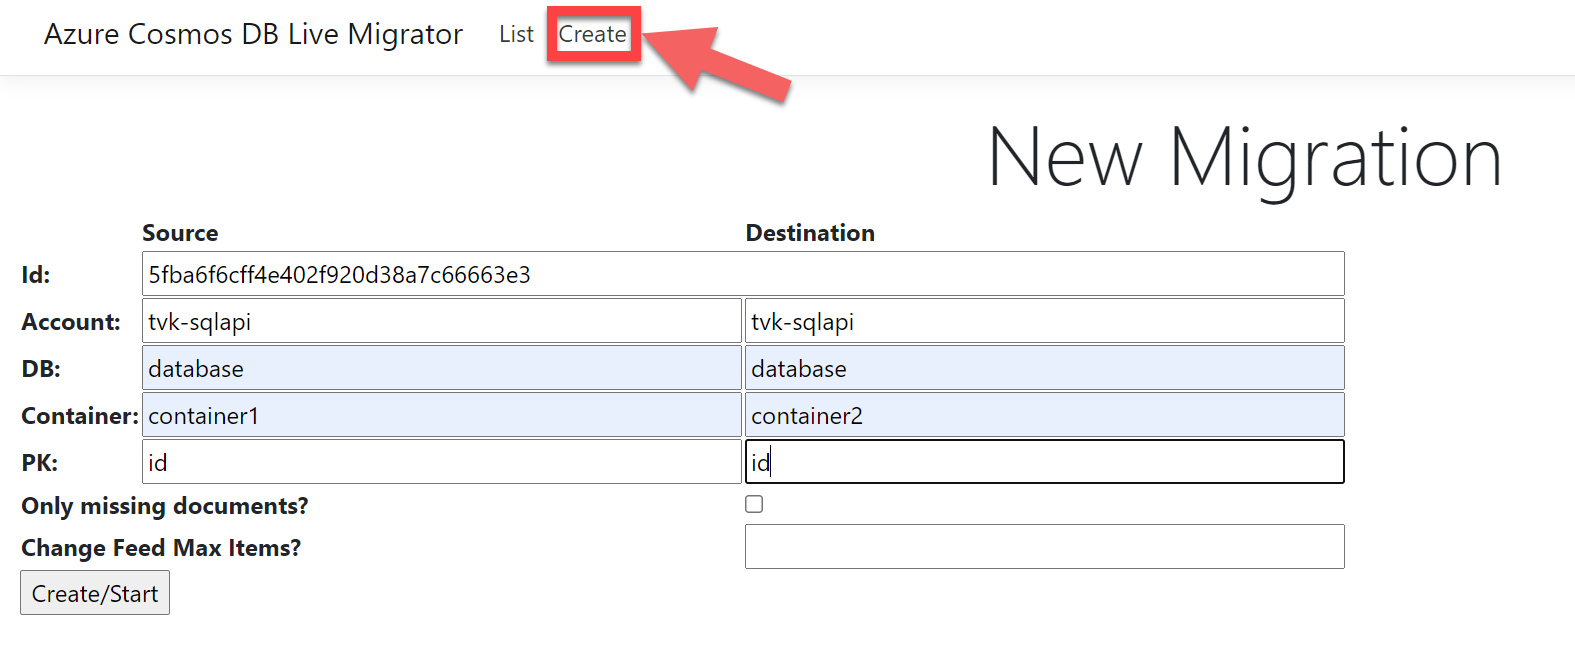
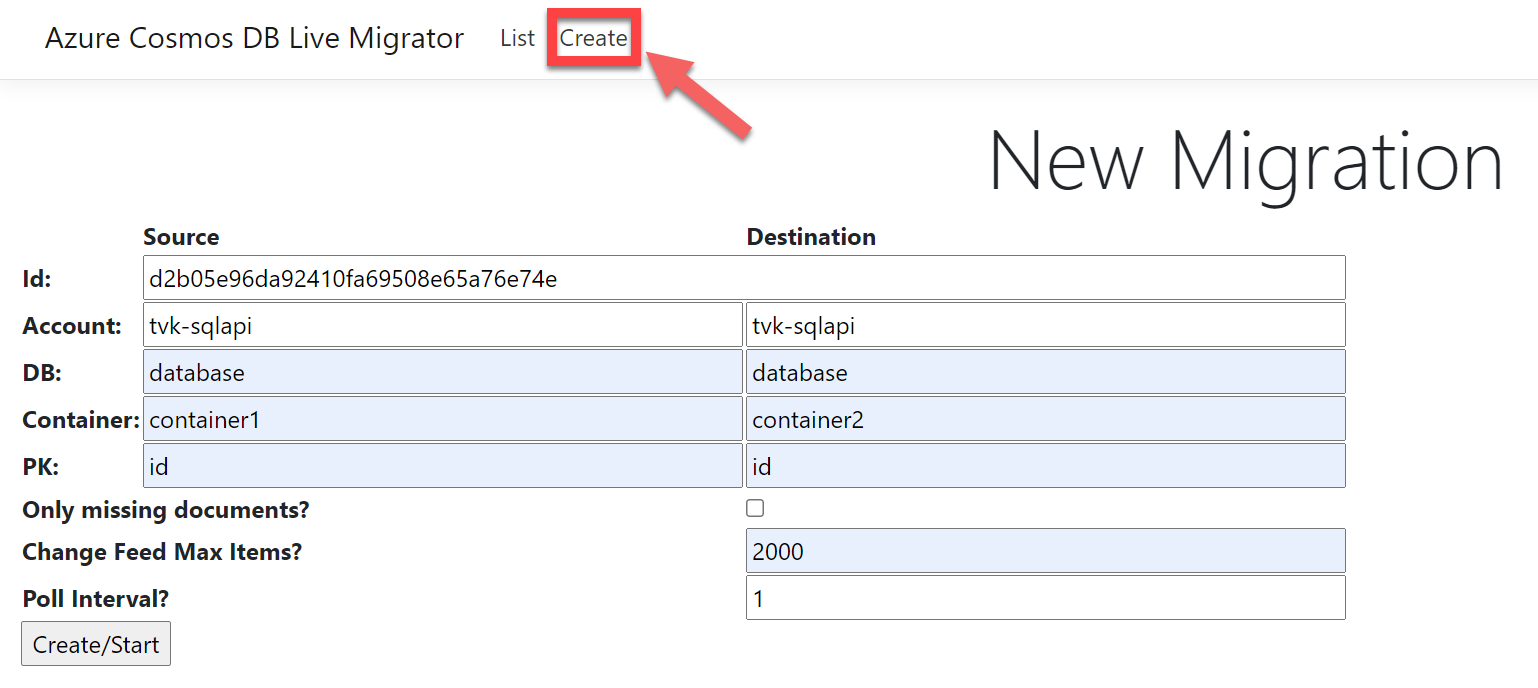
add poll interval parameter

diff --git a/Migration.Executor.WebJob/ChangeFeedProcessorHost.cs b/Migration.Executor.WebJob/ChangeFeedProcessorHost.cs
@@ -30,6 +30,7 @@ namespace Migration.Executor.WebJob
         private readonly BlobContainerClient deadletterClient;
         private readonly string processorName;
         private readonly int withMaxItems;
+        private readonly int pollInterval;
 
         private readonly MigrationConfig config;
         private ChangeFeedProcessor changeFeedProcessor;
@@ -41,6 +42,10 @@ namespace Migration.Executor.WebJob
             this.SourcePartitionKeys = config.SourcePartitionKeys;
             this.TargetPartitionKey = config.TargetPartitionKey;
             this.withMaxItems =  config.ChangeFeedMaxItems == null ? 1000 : Int32.Parse(config.ChangeFeedMaxItems);
+            this.pollInterval = config.PollInterval == null ? 5 : Int32.Parse(config.PollInterval);
+
+            Console.WriteLine("this.withMaxItems: " + this.withMaxItems);
+            
 
             this.leaseCollectionClient = KeyVaultHelper.Singleton.CreateCosmosClientFromKeyVault(
                     EnvironmentConfig.Singleton.MigrationMetadataCosmosAccountName,
@@ -179,7 +184,8 @@ namespace Migration.Executor.WebJob
                     starttime = DateTime.UtcNow.Subtract(TimeSpan.FromHours(this.config.DataAgeInHours.Value));
                 }
             }
-
+            TimeSpan interval = this.pollInterval > 60 ? new TimeSpan(0, 0, 5): new TimeSpan(0, 0, this.pollInterval);
+            Console.WriteLine("interval: " + interval);
             this.changeFeedProcessor = this.sourceCollectionClient.GetContainer(this.config.MonitoredDbName, this.config.MonitoredCollectionName)
                 .GetChangeFeedProcessorBuilder<DocumentMetadata>(this.processorName, this.ProcessChangesAsync)
                 .WithInstanceName(hostName)
@@ -190,6 +196,7 @@ namespace Migration.Executor.WebJob
                 .WithLeaseConfiguration(TimeSpan.FromSeconds(30))
                 .WithStartTime(starttime)
                 .WithMaxItems(this.withMaxItems)
+                .WithPollInterval(interval)
                 .Build();
 
             TelemetryHelper.Singleton.LogInfo(

diff --git a/Migration.UI.WebApp/Pages/NewMigration.cshtml.cs b/Migration.UI.WebApp/Pages/NewMigration.cshtml.cs
@@ -19,6 +19,7 @@ namespace Migration.UI.WebApp.Pages
             string destinationContainer,
             string destinationPK,
             string withMaxItems,
+            string pollInterval,
             bool onlyMissingDocuments)
         {
             MigrationConfig newConfig = new MigrationConfig
@@ -33,6 +34,7 @@ namespace Migration.UI.WebApp.Pages
                 DestCollectionName = destinationContainer,
                 TargetPartitionKey = destinationPK,
                 ChangeFeedMaxItems = withMaxItems,
+                PollInterval = pollInterval,
                 Completed = false,
                 StartTimeEpochMs = DateTimeOffset.UtcNow.ToUnixTimeMilliseconds(),
                 OnlyInsertMissingItems = onlyMissingDocuments,

diff --git a/Migration.Shared/DataContracts/MigrationConfig.cs b/Migration.Shared/DataContracts/MigrationConfig.cs
@@ -6,6 +6,9 @@ namespace Migration.Shared.DataContracts
 {
     public class MigrationConfig
     {
+        [JsonProperty("PollInterval")]
+        public string PollInterval { get; set; }
+
         [JsonProperty("ChangeFeedMaxItems")]
         public string ChangeFeedMaxItems { get; set; }
 

diff --git a/README.md b/README.md
@@ -191,6 +191,7 @@ Click the button below:
   - **<u>PK</u>** – The partition key definitions of the source and destination container. If your partition key is “/id” in the source container and you would want to use “/pk” in the destination container after migration you would enter “id” and “pk” in these fields.
   - **<u>Only missing documents?</u>** - In cases where transient errors occur during migration (such as a temporary DC outage), you can check this box in order to migrate only missing documents (i.e. ignore documents that already exist in the target container).
   - **<u>Change Feed Max Items?</u>** - Sets the maximum number of items to be returned in a Change Feed Request. If no value is entered, the default will be 1000. Increasing this value may be able to achieve greater client-side throughput for large migrations where normalized RU consumption in the target container is very low (and as long as increasing max items does not also result in rate limiting, or hitting the 4MB response size limit).
+  - **<u>Poll Interval?</u>** - This sets the delay in between polling the change feed for new changes in seconds. You can a value between 1 and 60 seconds (default is 5).
 
 - Click “Create/Start”
 
